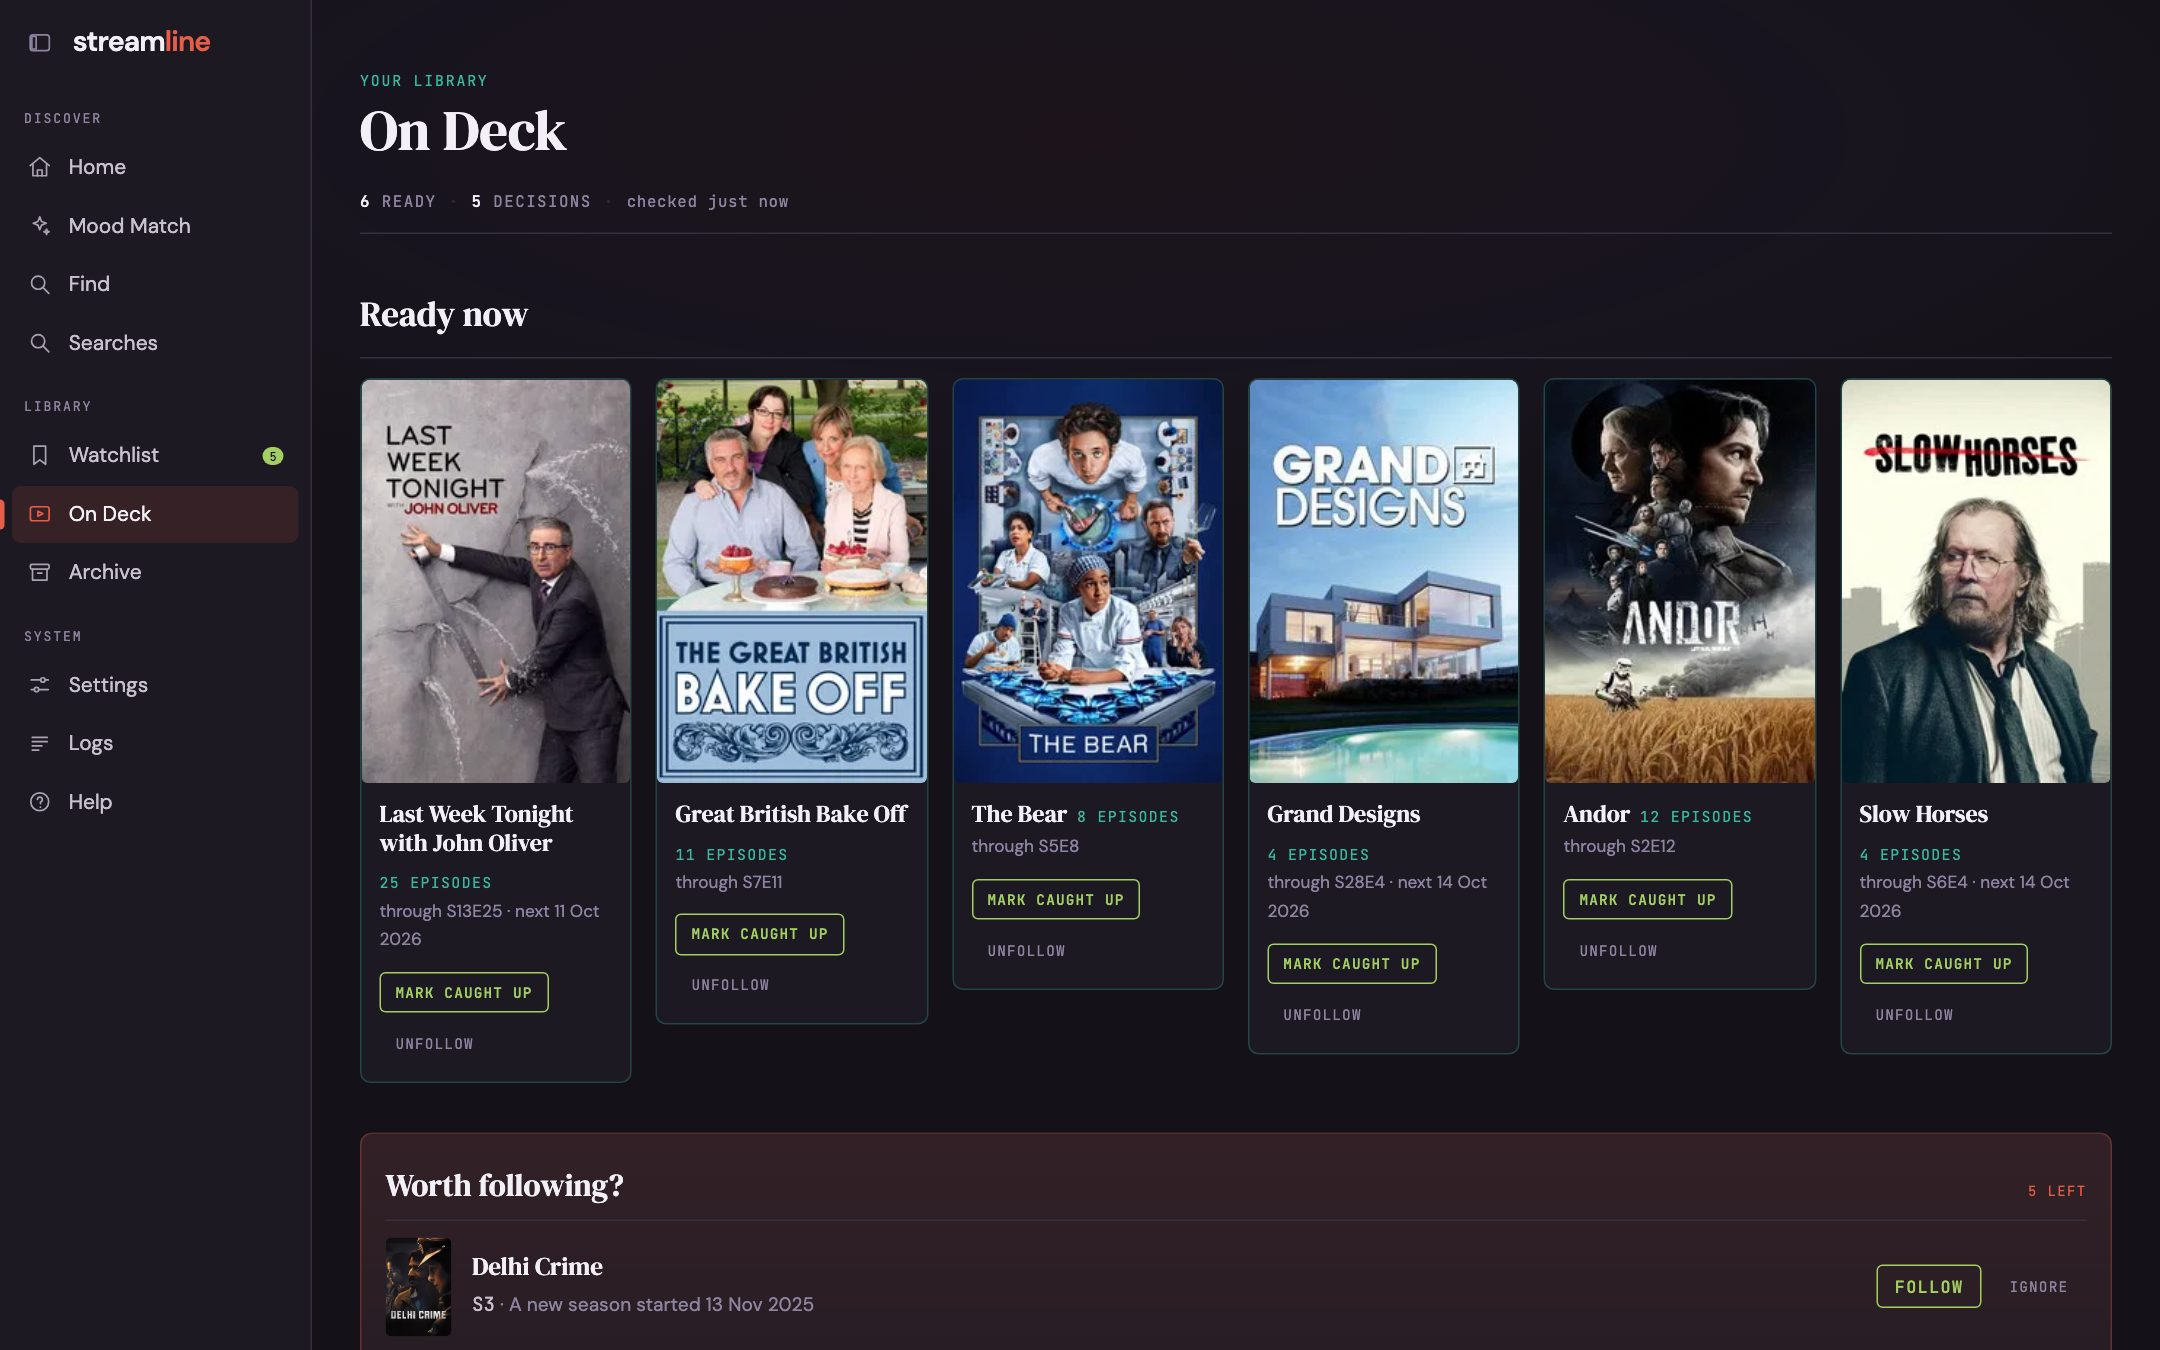
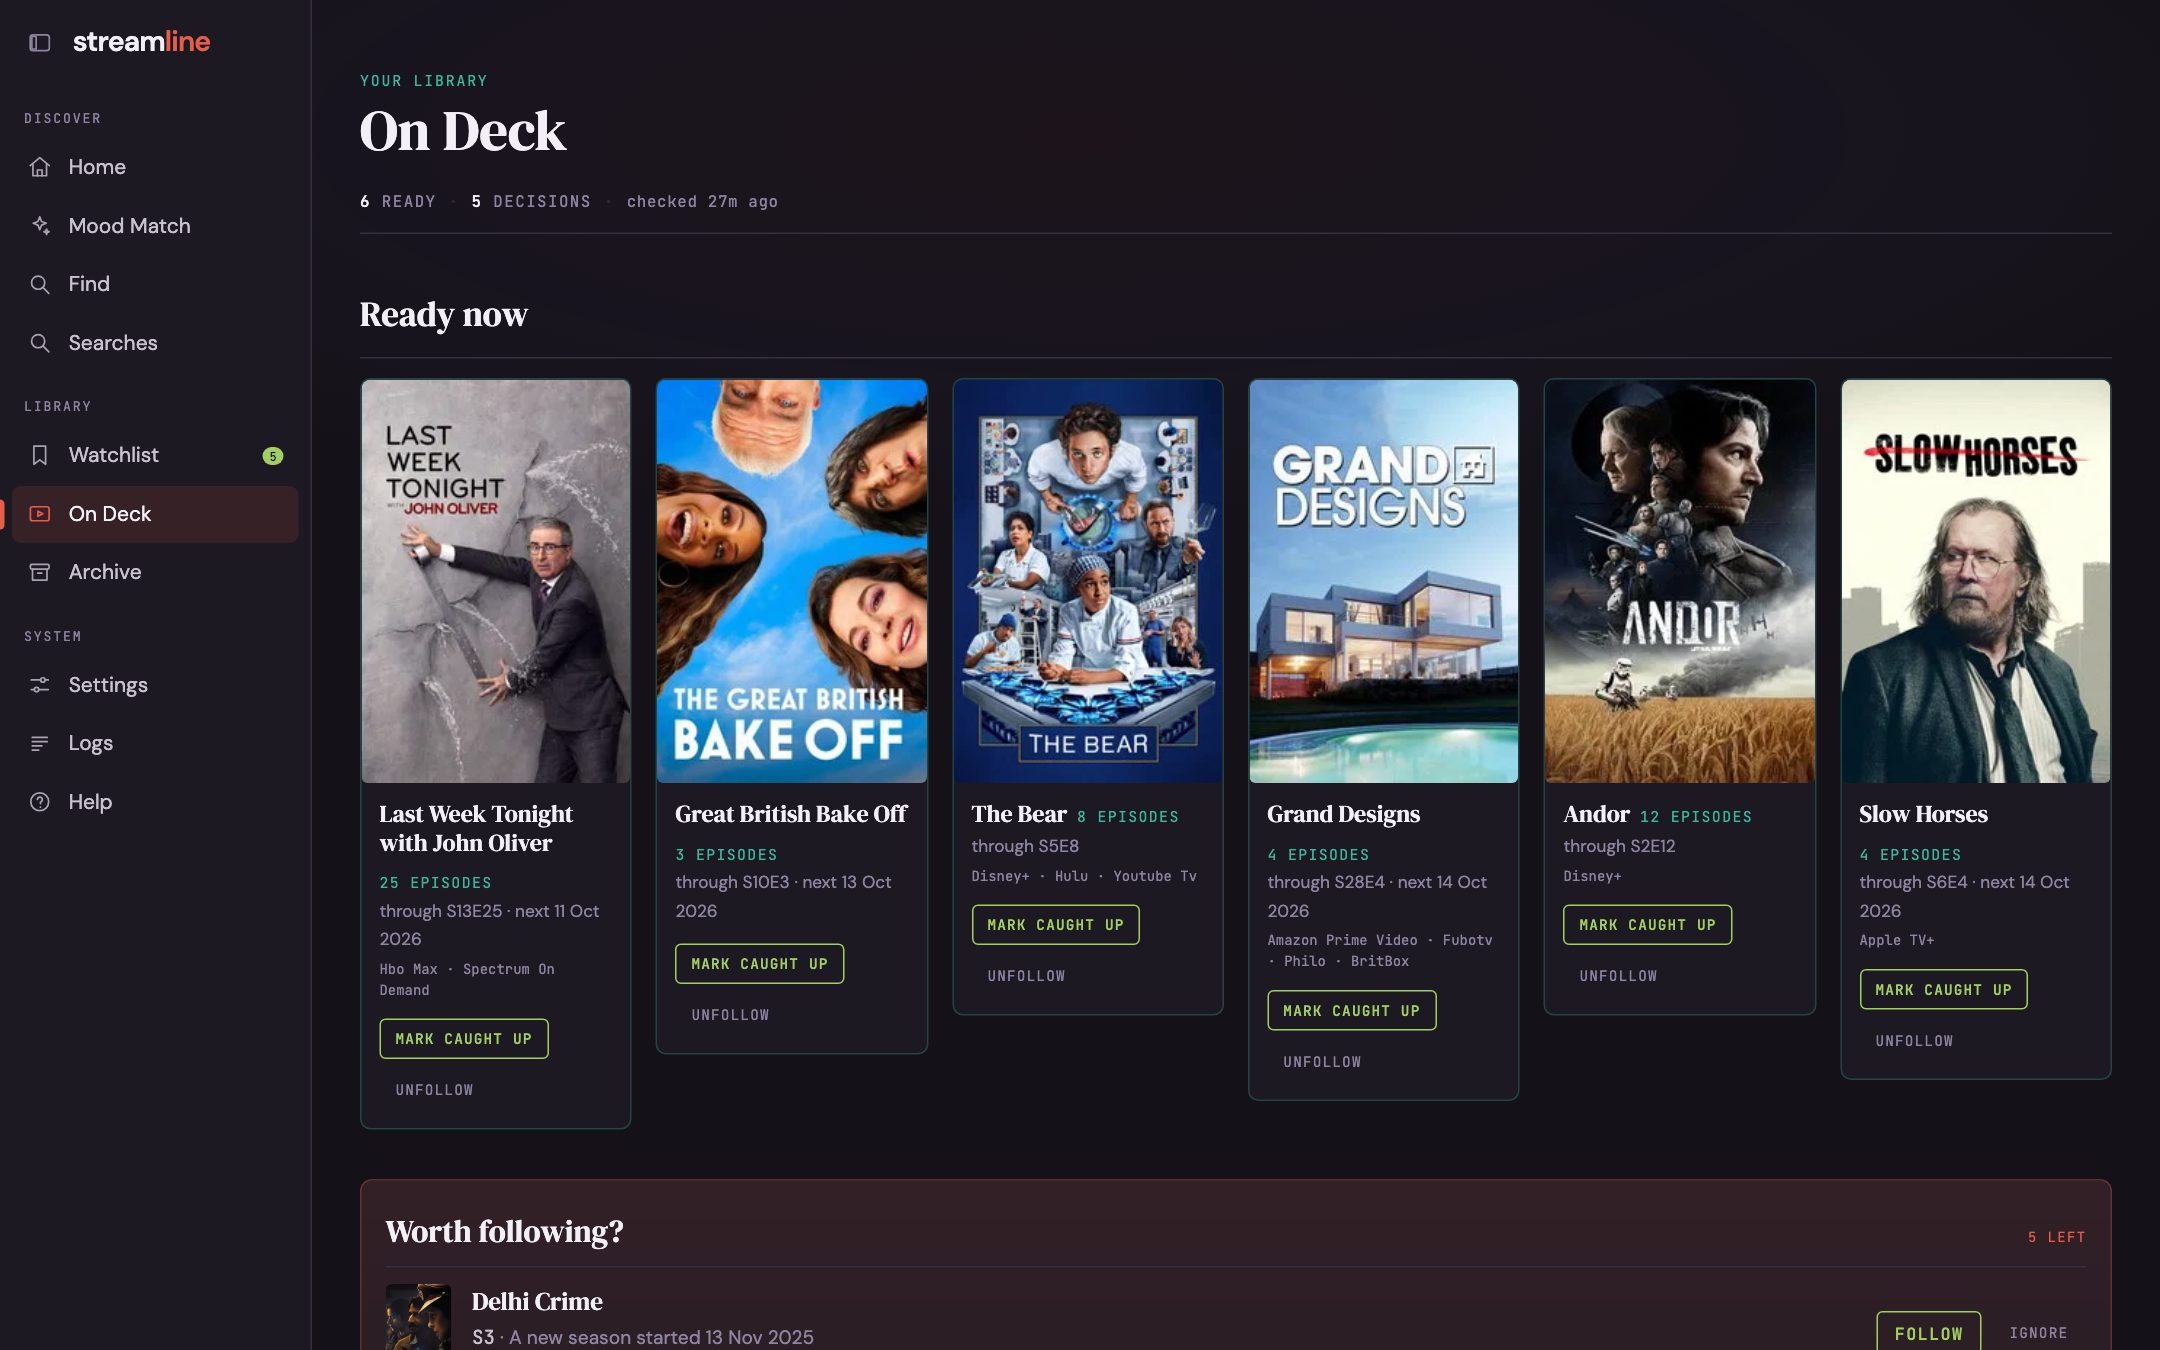
On Deck: say where each show streams, and on the title page (#140)
Reads the same providers cache as search results; only a show never looked
up costs one TMDB call. A show with no known service shows nothing. JustWatch
is credited wherever provider names appear.

Closes #139

diff --git a/recommender/templates/shows.html b/recommender/templates/shows.html
@@ -194,6 +194,14 @@
   .show-card--ready h3 { font-size: 1.12rem; }
   .show-card-copy { color: var(--muted); font-size: 0.8rem; }
   .show-card-detail { color: var(--body); }
+  /* Where it streams: a quiet secondary line, same tone as search results. */
+  .show-where {
+    color: var(--muted);
+    font-size: 0.58rem;
+    line-height: 1.5;
+    margin-top: 0.2rem;
+    overflow-wrap: anywhere;
+  }
   .show-actions { display: flex; align-items: center; justify-content: flex-end; gap: 0.4rem; flex-wrap: wrap; }
   .show-actions button { padding: 0.42rem 0.7rem; white-space: nowrap; }
   .show-inline-form { display: inline; margin: 0; }
@@ -420,6 +428,7 @@
   .soon-date { color: var(--body); font-size: 0.68rem; letter-spacing: 0.03em; }
   .soon-title { color: var(--text); font-size: 0.92rem; overflow: hidden; text-overflow: ellipsis; white-space: nowrap; }
   .soon-slug { color: var(--muted); font-size: 0.6rem; letter-spacing: 0.06em; }
+  .soon-where { letter-spacing: 0; opacity: 0.85; }
   .soon-row--undated .soon-date { color: var(--muted); }
   .soon-row .show-inline-form {
     opacity: 0;
@@ -461,7 +470,12 @@
     text-transform: uppercase;
   }
   .shows-credit a { color: inherit; text-decoration: underline; text-underline-offset: 2px; }
-  .shows-credit a:hover { color: var(--text); }
+  @media (hover: hover) {
+    .shows-credit a:hover { color: var(--text); }
+  }
+  /* The JustWatch credit is the last thing inside #shows-content, so the
+     TVmaze credit below it tucks up underneath as one credits block. */
+  #shows-content:has(.shows-credit--justwatch) + .shows-credit { margin-top: 0.35rem; }
 
   @media (max-width: 640px) {
     .show-card { grid-template-columns: 48px minmax(0, 1fr); }

diff --git a/recommender/templates/_shows_content.html b/recommender/templates/_shows_content.html
@@ -8,6 +8,9 @@
     <p class="show-card-copy">
       <span class="show-card-detail mono">S{{ show.season_number }}</span> · {{ show.reason }}{% if show.air_date %} {{ show.air_date|human_date }}{% endif %}
     </p>
+    {% if show.streaming_providers %}
+    <p class="show-where mono">{{ show.streaming_providers | join("  ·  ") }}</p>
+    {% endif %}
   </div>
   <div class="show-actions">
     <form class="show-inline-form" action="/shows/follow" method="post"
@@ -88,6 +91,9 @@
             through S{{ show.season_number }}E{{ show.latest_aired_episode }}
             {% if show.next_air_date %} · next {{ show.next_air_date|human_date }}{% endif %}
           </p>
+          {% if show.streaming_providers %}
+          <p class="show-where mono">{{ show.streaming_providers | join("  ·  ") }}</p>
+          {% endif %}
         </div>
         <div class="show-actions">
           <form class="show-inline-form" action="/shows/caught-up" method="post"
@@ -200,5 +206,15 @@
       {% endfor %}
     </div>
   </details>
+  {% endif %}
+
+  {# TMDB requires a JustWatch credit wherever provider names show. It lives
+     inside #shows-content so the refresh poll re-renders it with the cards. #}
+  {% set where = namespace(shown=false) %}
+  {% for show in sections.ready_now + sections.might_be_back + sections.coming_soon %}
+  {% if show.streaming_providers %}{% set where.shown = true %}{% endif %}
+  {% endfor %}
+  {% if where.shown %}
+  <p class="shows-credit shows-credit--justwatch mono">Streaming data from <a href="https://www.justwatch.com" target="_blank" rel="noopener">JustWatch</a></p>
   {% endif %}
 </div>

diff --git a/recommender/templates/_title_panel.html b/recommender/templates/_title_panel.html
@@ -34,6 +34,14 @@
     </div>
     {% endif %}
 
+    {% if streaming_providers %}
+    {# TMDB requires the JustWatch credit wherever provider names show. #}
+    <div class="tp-where">
+      <p class="tp-providers mono">{{ streaming_providers | join("  ·  ") }}</p>
+      <p class="justwatch-credit mono">Streaming data from <a href="https://www.justwatch.com" target="_blank" rel="noopener">JustWatch</a></p>
+    </div>
+    {% endif %}
+
     <div style="display:flex; align-items:center; gap:0.75rem; margin-top:0.5rem; flex-wrap:wrap;">
       <a href="https://www.themoviedb.org/{{ 'tv' if meta.content_type == 'tv' else 'movie' }}/{{ tmdb_id }}"
          target="_blank" rel="noopener" class="mono result-link">TMDB ↗</a>
@@ -126,6 +134,19 @@
 <style>
   /* Narrow columns (a phone, or the Archive modal) stack less wastefully. */
   .title-panel { container-type: inline-size; }
+  .title-panel .tp-where { margin-bottom: 0.85rem; }
+  .title-panel .tp-providers { font-size: 0.66rem; color: var(--body); line-height: 1.5; overflow-wrap: anywhere; }
+  .title-panel .justwatch-credit {
+    margin-top: 0.15rem;
+    font-size: 0.52rem;
+    letter-spacing: 0.08em;
+    text-transform: uppercase;
+    color: var(--muted);
+  }
+  .title-panel .justwatch-credit a { color: inherit; text-decoration: underline; text-underline-offset: 2px; }
+  @media (hover: hover) {
+    .title-panel .justwatch-credit a:hover { color: var(--text); }
+  }
   @container (max-width: 520px) {
     .title-panel .tp-head { gap: 1.1rem !important; margin-top: 0.5rem !important; }
     .title-panel .tp-poster { width: 108px !important; }

diff --git a/recommender/templates/_shows_coming_soon.html b/recommender/templates/_shows_coming_soon.html
@@ -6,6 +6,7 @@
   <span class="soon-slug mono">
     {%- if show.next_episode_number %}S{{ show.season_number }}E{{ show.next_episode_number }}
     {%- else %}S{{ show.season_number }}{% endif %}
+    {%- if show.streaming_providers %}<span class="soon-where"> · {{ show.streaming_providers | join("  ·  ") }}</span>{% endif %}
   </span>
   <form class="show-inline-form" action="/shows/unfollow" method="post"
         hx-post="/shows/unfollow" hx-target="closest .show-row" hx-swap="outerHTML swap:340ms" hx-indicator="closest .show-row">

diff --git a/tests/test_web.py b/tests/test_web.py
@@ -814,6 +814,98 @@ class TestStatusObservability:
         assert "ingestion_errors" not in payload
 
 
+class TestStreamingServices:
+    """On Deck and the title page say where a show streams, from the providers cache."""
+
+    def _cache_providers(self, tmdb_id, names):
+        import json
+        from pathlib import Path
+        path = Path(web.config.PROVIDERS_CACHE_DIR) / "tv" / web.config.WATCH_REGION / f"{tmdb_id}.json"
+        path.parent.mkdir(parents=True, exist_ok=True)
+        path.write_text(json.dumps({"providers": names}))
+
+    def _on_deck(self, monkeypatch, tmp_path):
+        monkeypatch.setattr(web.config, "TMDB_API_KEY", "tmdb")
+        monkeypatch.setattr(web.config, "CACHE_DIR", str(tmp_path / "tmdb"))
+        monkeypatch.setattr(web, "_show_page_data", lambda: ([], [], _show_sections()))
+        monkeypatch.setattr(web.show_tracker, "refresh_is_due", lambda *_args: False)
+
+    def test_on_deck_cards_show_cached_services_with_no_tmdb_call(self, client, monkeypatch, tmp_path):
+        self._on_deck(monkeypatch, tmp_path)
+        self._cache_providers(10, ["Apple TV", "Apple TV Amazon Channel"])
+        self._cache_providers(20, ["Netflix"])
+        tmdb_get = MagicMock(side_effect=AssertionError("TMDB called"))
+        monkeypatch.setattr(web.TmdbClient, "_get", tmdb_get)
+
+        body = client.get("/shows").get_data(as_text=True)
+
+        assert '<p class="show-where mono">Apple TV+</p>' in body
+        assert '<p class="show-where mono">Netflix</p>' in body
+        assert 'shows-credit--justwatch' in body
+        tmdb_get.assert_not_called()
+
+    def test_show_with_no_services_says_nothing(self, client, monkeypatch, tmp_path):
+        self._on_deck(monkeypatch, tmp_path)
+        self._cache_providers(10, [])
+        self._cache_providers(20, [])
+        monkeypatch.setattr(web.TmdbClient, "_get", MagicMock(side_effect=AssertionError("TMDB called")))
+
+        body = client.get("/shows").get_data(as_text=True)
+
+        assert 'class="show-where' not in body
+        assert "justwatch.com" not in body
+        assert "not available" not in body.lower()
+
+    def test_uncached_show_is_looked_up_once_then_read_from_cache(self, client, monkeypatch, tmp_path):
+        self._on_deck(monkeypatch, tmp_path)
+        self._cache_providers(20, [])
+        tmdb_get = MagicMock(return_value={"results": {"US": {"flatrate": [{"provider_name": "Apple TV"}]}}})
+        monkeypatch.setattr(web.TmdbClient, "_get", tmdb_get)
+
+        first = client.get("/shows").get_data(as_text=True)
+        second = client.get("/shows").get_data(as_text=True)
+
+        assert tmdb_get.call_count == 1
+        assert '<p class="show-where mono">Apple TV+</p>' in first
+        assert '<p class="show-where mono">Apple TV+</p>' in second
+
+    @patch("recommender.web._load_enrichments", return_value={})
+    @patch("recommender.web._load_user_state")
+    @patch("recommender.web._get_context")
+    def test_title_page_shows_services_and_credit(
+        self, mock_ctx, mock_user_state, _mock_enrichments, client, monkeypatch
+    ):
+        from recommender.tmdb_client import TmdbMetadata
+
+        monkeypatch.setattr(web.config, "TMDB_API_KEY", "tmdb")
+        monkeypatch.setattr(web, "_title_tracking_state", lambda *_args: {
+            "state": None, "from_season": None, "can_follow": False})
+        user_state = MagicMock()
+        user_state.is_manually_watched.return_value = False
+        user_state.is_in_watchlist.return_value = False
+        user_state.is_dismissed.return_value = False
+        user_state.get_rating.return_value = None
+        mock_user_state.return_value = user_state
+        tmdb_client = MagicMock()
+        tmdb_client.get_cached_by_id.return_value = TmdbMetadata(tmdb_id=10, content_type="tv", title="Ready Show")
+        tmdb_client.get_watch_providers.return_value = ["Apple TV"]
+        mock_ctx.return_value = MagicMock(
+            tmdb_client=tmdb_client,
+            watch_index=MagicMock(tmdb_keys=set()),
+        )
+
+        html = client.get("/title/10?type=tv").get_data(as_text=True)
+
+        assert '<p class="tp-providers mono">Apple TV+</p>' in html
+        assert 'class="justwatch-credit mono"' in html
+
+        tmdb_client.get_watch_providers.return_value = []
+        html = client.get("/title/10?type=tv").get_data(as_text=True)
+
+        assert 'class="tp-providers' not in html
+        assert "justwatch.com" not in html
+
+
 class TestTitleDetailFallback:
     @patch("recommender.web._load_enrichments", return_value={})
     @patch("recommender.web._load_user_state")

diff --git a/recommender/web.py b/recommender/web.py
@@ -641,6 +641,7 @@ def _render_shows_content(
     progress=None,
     template: str = "_shows_content.html",
 ) -> str:
+    _attach_show_providers(sections)
     soon_sort = _soon_sort()
     soon_dated, soon_undated = _split_coming_soon(sections["coming_soon"], soon_sort)
     return render_template(
@@ -1182,6 +1183,7 @@ def shows_page() -> str:
 def coming_soon_section() -> str:
     """Re-render just the Coming soon section, for the sort control."""
     _, _, sections = _show_page_data()
+    _attach_show_providers(sections)
     soon_sort = _soon_sort()
     soon_dated, soon_undated = _split_coming_soon(sections["coming_soon"], soon_sort)
     return render_template(
@@ -2296,6 +2298,7 @@ def title_detail(tmdb_id: int) -> str:
         meta=meta, description=description, overview=overview,
         tmdb_id=tmdb_id, ct=ct, poster=poster, user_state=state,
         tracking=_title_tracking_state(tmdb_id, ct),
+        streaming_providers=_streaming_providers(tmdb_id, ct, ctx.tmdb_client) if meta else [],
     )
 
 
@@ -2450,6 +2453,35 @@ def _consolidate_providers(names: list[str]) -> list[str]:
             seen.add(label)
             out.append(label)
     return out
+
+
+def _streaming_providers(tmdb_id: int | None, content_type: str | None, tmdb=None) -> list[str]:
+    """Where a title streams in the watch region, as clean brand names.
+
+    Reads the providers cache; only a title never looked up costs a TMDB call,
+    the same as search results. Without an API key only cached titles show.
+    """
+    if not (tmdb_id and content_type and config.TMDB_API_KEY):
+        return []
+    tmdb = tmdb or TmdbClient(api_key=config.TMDB_API_KEY, cache_dir=config.CACHE_DIR)
+    try:
+        return _consolidate_providers(tmdb.get_watch_providers(
+            tmdb_id, content_type, config.WATCH_REGION, config.PROVIDERS_CACHE_DIR))[:4]
+    except Exception as exc:
+        log.debug("Watch providers lookup failed for %s/%s: %s", content_type, tmdb_id, exc)
+        return []
+
+
+def _attach_show_providers(sections: dict[str, list[dict]]) -> None:
+    """Add streaming services to the On Deck cards the page shows."""
+    tmdb = None
+    for name in ("ready_now", "might_be_back", "coming_soon"):
+        for card in sections.get(name, []):
+            if "streaming_providers" in card:
+                continue
+            if tmdb is None and config.TMDB_API_KEY:
+                tmdb = TmdbClient(api_key=config.TMDB_API_KEY, cache_dir=config.CACHE_DIR)
+            card["streaming_providers"] = _streaming_providers(card.get("tmdb_id"), "tv", tmdb)
 
 
 def _decorate_saved_item(item: dict, ctx) -> None:

diff --git a/tests/conftest.py b/tests/conftest.py
@@ -61,3 +61,13 @@ def _isolate_find_cache_dir(tmp_path, monkeypatch):
     The path keeps its real suffix for tests that check the configured name.
     """
     monkeypatch.setattr(config, "FIND_CACHE_DIR", str(tmp_path / "recommender/cache/find"))
+
+
+@pytest.fixture(autouse=True)
+def _isolate_providers_cache_dir(tmp_path, monkeypatch):
+    """Point PROVIDERS_CACHE_DIR at a per-test directory.
+
+    On Deck and the title page read streaming services from it. Without this,
+    a route test would show the user's real cached providers.
+    """
+    monkeypatch.setattr(config, "PROVIDERS_CACHE_DIR", str(tmp_path / "providers"))

diff --git a/site/src/content/docs/guides/on-deck.md b/site/src/content/docs/guides/on-deck.md
@@ -13,6 +13,10 @@ description: Follow shows and see when new episodes are ready to watch.
 
 Follow a show from **Worth following?** or from the show's title page.
 
+Each show also says where it streams in your region, such as Apple TV+, and so does its title page.
+A show with no known streaming service shows nothing there.
+Streaming data comes from [JustWatch](https://www.justwatch.com) through TMDB.
+
 ## When an episode counts as aired
 
 TMDB gives an episode's air date but not its time.
